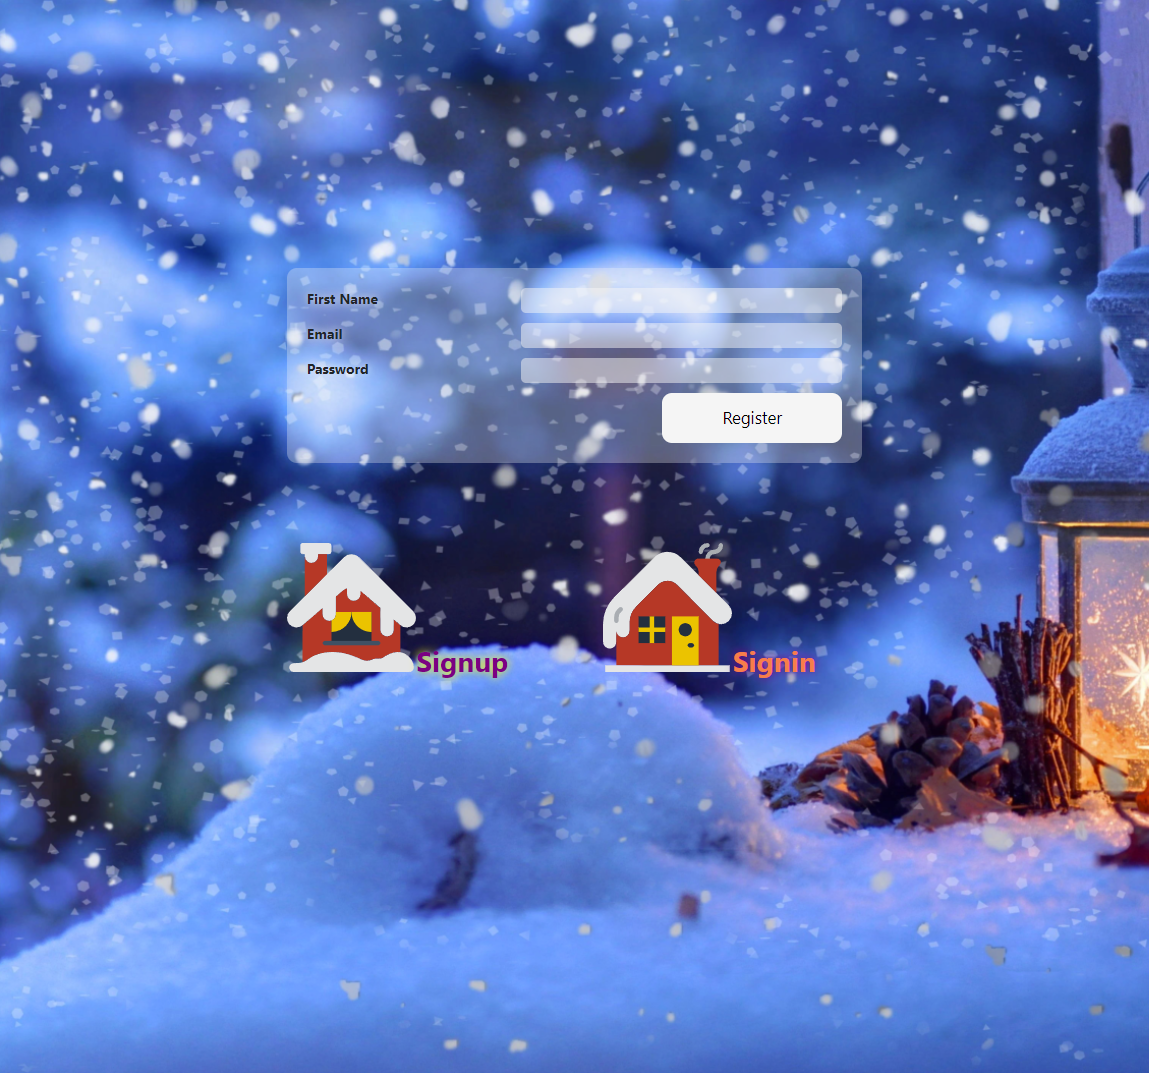
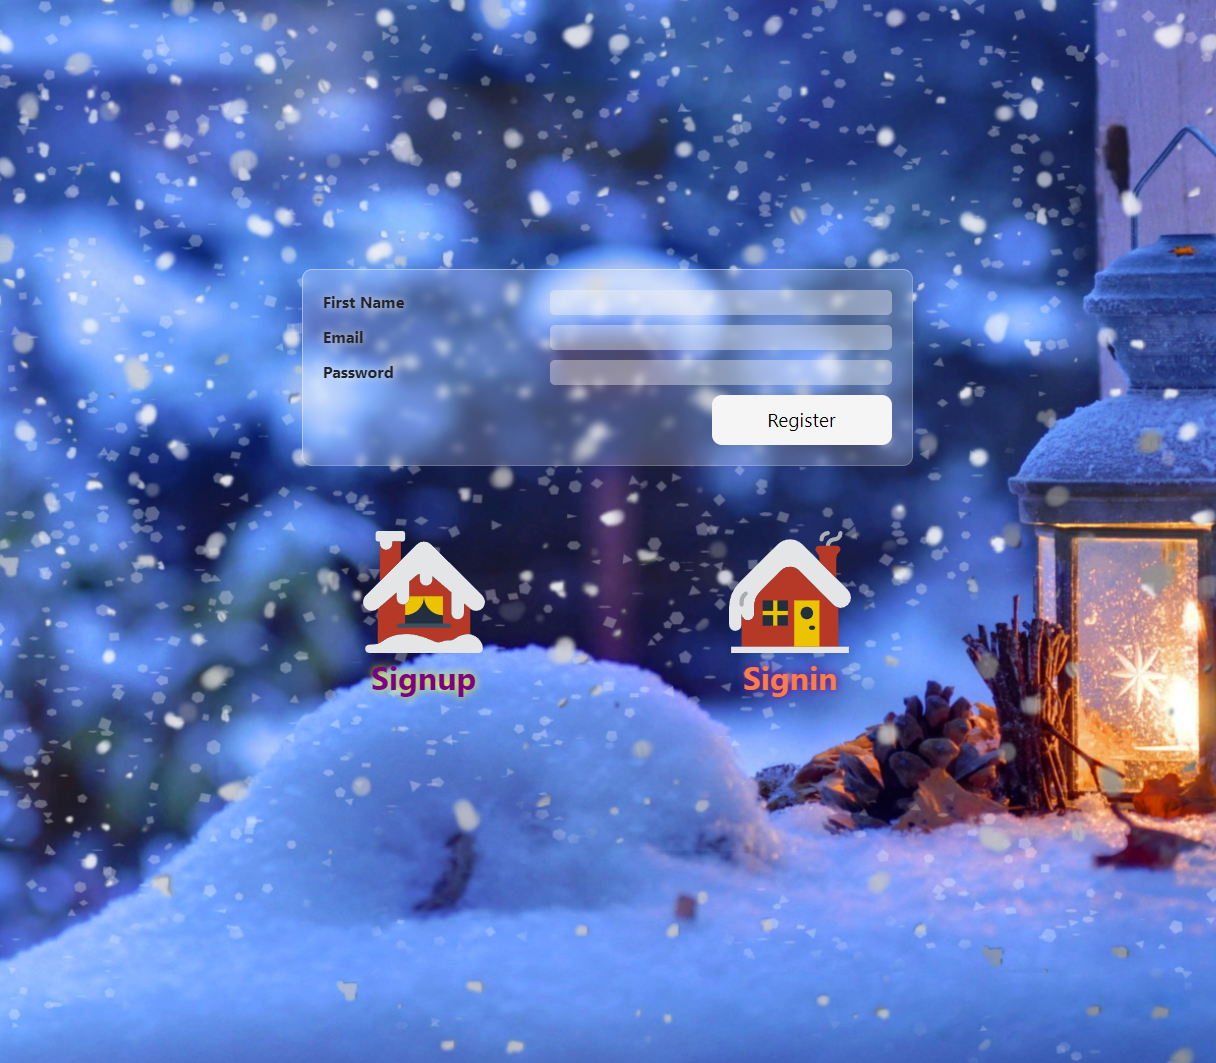
feat: update styles

diff --git a/src/app/pages/auth/signup/signup.component.scss b/src/app/pages/auth/signup/signup.component.scss
@@ -46,7 +46,7 @@
     border: none;
     font-weight: 700;
     padding-left: 5px;
-    background-color: rgb(245, 245, 245, 50%);
+    background-color: rgb(245, 245, 245, 40%);
     border-radius: 5px;
 
     &:focus {
@@ -55,10 +55,13 @@
   }
 
   &_link {
-    width: 45%;
+    width: 40%;
     font-size: 2rem;
     text-decoration: none;
     font-weight: 700;
+    display: flex;
+    flex-direction: column;
+    align-items: center;
 
     &.up {
       color: purple;
@@ -120,8 +123,30 @@
     flex-direction: column;
     width: 100%;
     border-radius: 10px;
-    background-color: rgb(245, 245, 245, 30%);
+    background-color: rgb(245, 245, 245, 20%);
     padding: 20px;
     margin-bottom: 50px;
+    border: 1px solid rgba(255, 255, 255, 0.4);
+    border-right: 1px solid rgba(255, 255, 255, 0.2);
+    border-bottom: 1px solid rgba(255, 255, 255, 0.2);
+    backdrop-filter: blur(4px);
+    box-shadow: 0 5px 45px rgba(0, 0, 0, 0.1);
+    overflow: hidden;
+
+    &:before {
+      content: '';
+      position: absolute;
+      top: 0;
+      left: 0;
+      width: 50px;
+      height: 100%;
+      background: rgb(245, 245, 245, 30%);
+      transform: skewX(45deg) translateX(-300%);
+      transition: all 0.5s ease-in-out;
+    }
+
+    &:hover::before {
+      transform: skewX(45deg) translateX(1400%);
+    }
   }
 }

diff --git a/README.md b/README.md
@@ -8,6 +8,8 @@ This project was generated with [Angular CLI](https://github.com/angular/angular
 
 ![screenshot](./src/assets/pics/screenshot_signup_page.PNG)
 
+![screenshot](./src/assets/pics/screenshot_404_page.PNG)
+
 ## Development server
 
 Run `ng serve` for a dev server. Navigate to `http://localhost:4200/`. The application will automatically reload if you change any of the source files.
